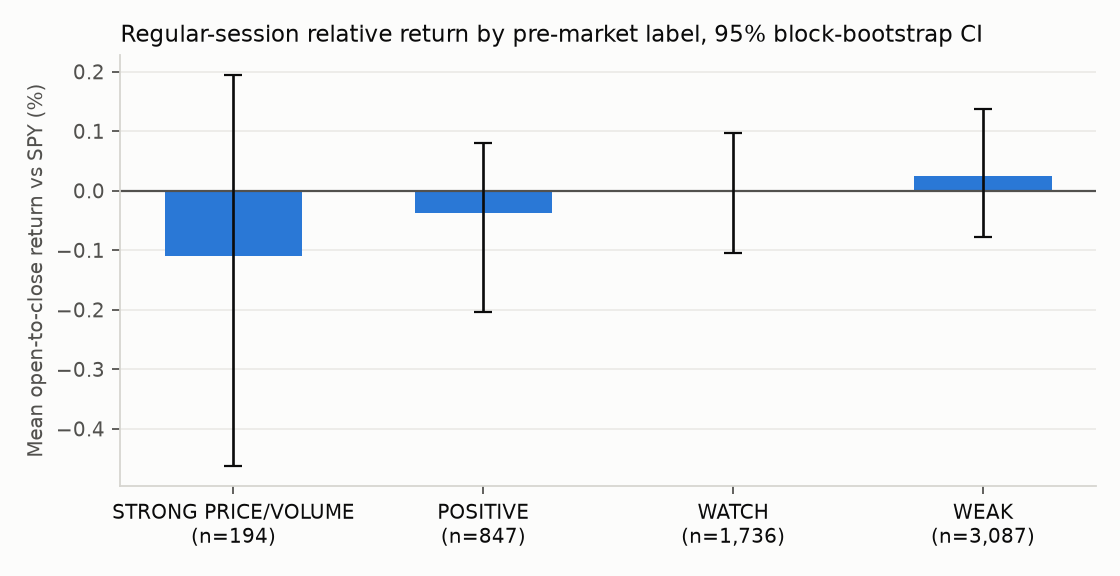
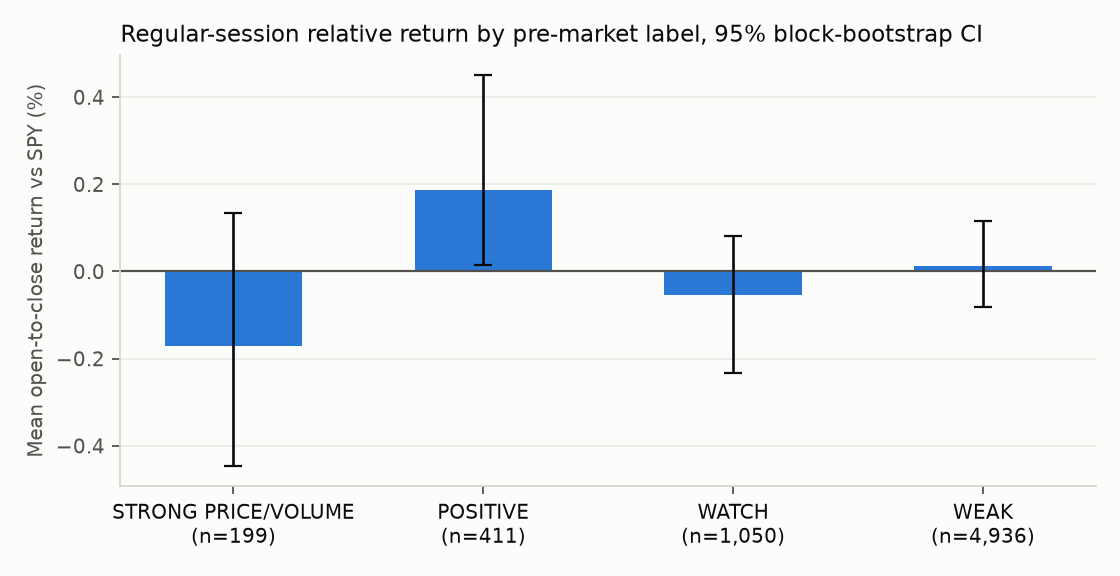
Signal evaluation for 2026-11-05

diff --git a/docs/premarket_evaluation.md b/docs/premarket_evaluation.md
@@ -7,26 +7,26 @@ close, relative to SPY over the same hours?**
 
 ## Summary
 
-*Last evaluated 2026-11-05 on 5,864 ticker-days (2023-12-26 to 2026-11-04), pre-market bars through 09:00 ET, data: yahoo.*
+*Last evaluated 2026-11-05 on 6,596 ticker-days (2023-11-07 to 2026-11-04), pre-market bars through 08:30 ET, data: alpaca-sip.*
 
 | Metric | Estimate | 95% CI |
 |---|---:|---:|
-| Rank IC: pre-market score vs open-to-close return over SPY | -0.030 | [-0.066, +0.002] |
-| Mean return gap: POSITIVE-or-better minus WEAK | -0.08% | [-0.28%, +0.11%] |
-| Rank IC: gap vs SPY alone (negative = gaps fade) | +0.000 | |
+| Rank IC: pre-market score vs open-to-close return over SPY | -0.025 | [-0.056, +0.001] |
+| Mean return gap: POSITIVE-or-better minus WEAK | +0.06% | [-0.14%, +0.27%] |
+| Rank IC: gap vs SPY alone (negative = gaps fade) | -0.010 | |
 
 The 95% interval includes zero, so the data do not show that the pre-market score predicts the regular session. It describes the pre-market well; it is not a forecast.
 
 
 ## Setup
 
-- **Universe:** AMD, AMZN, ETN, FSLR, GOOG, MRVL, NVDA, SKHY, SPCX, TSLA; benchmark SPY.
-- **Sample:** 717 trading days, 5,864 ticker-days with a full pre-market score.
+- **Universe:** ALAB, AMD, AMZN, ETN, FSLR, GOOG, MRVL, NVDA, SKHY, SPCX, TSLA; benchmark SPY.
+- **Sample:** 751 trading days, 6,596 ticker-days with a full pre-market score.
   0 ticker-days with a gap larger than 40% were dropped as
   likely data errors or corporate actions.
-- **Snapshot time:** pre-market bars that closed by 09:00 ET. Yahoo keeps
-  extended-hours history only at hourly resolution beyond ~60 days, so the evaluation uses hourly
-  bars; the live monitor uses 5-minute bars and runs at ~08:40 ET.
+- **Data:** Alpaca SIP feed (trades from every U.S. exchange), 30-minute bars over about 3 years, split-adjusted. Includes pre-market volume.
+- **Snapshot time:** pre-market bars that closed by 08:30 ET, the same
+  snapshot the [daily pre-market page](premarket.md) shows.
 - **Target:** open-to-close return minus SPY's open-to-close return. It begins after every input is
   known, so there is no look-ahead. Daily context comes from the previous completed session.
 - **Uncertainty:** one-day targets do not overlap, but stocks move together within a day, so
@@ -38,21 +38,21 @@ The 95% interval includes zero, so the data do not show that the pre-market scor
 
 | label | n | mean | ci_lo | ci_hi | median | hit_rate |
 |---|---:|---:|---:|---:|---:|---:|
-| STRONG PRICE/VOLUME | 194 | -0.11% | -0.46% | +0.20% | +0.03% | 50.5% |
-| POSITIVE | 847 | -0.04% | -0.20% | +0.08% | -0.03% | 48.8% |
-| WATCH | 1,736 | +0.00% | -0.10% | +0.10% | -0.06% | 48.7% |
-| WEAK | 3,087 | +0.03% | -0.08% | +0.14% | +0.00% | 50.0% |
+| STRONG PRICE/VOLUME | 199 | -0.17% | -0.45% | +0.13% | -0.25% | 45.7% |
+| POSITIVE | 411 | +0.19% | +0.02% | +0.45% | +0.10% | 52.6% |
+| WATCH | 1,050 | -0.05% | -0.23% | +0.08% | -0.03% | 48.7% |
+| WEAK | 4,936 | +0.01% | -0.08% | +0.11% | -0.02% | 49.5% |
 
 ## Baselines
 
 | signal | ic |
 |---|---:|
-| Pre-market score (this model) | -0.030 |
-| Gap vs SPY only | +0.000 |
-| Gap / ATR only | +0.001 |
-| Pre-market RVOL only | n/a |
-| Prior close end-of-day score only | -0.038 |
-| Shuffled score (null) | +0.006 |
+| Pre-market score (this model) | -0.025 |
+| Gap vs SPY only | -0.010 |
+| Gap / ATR only | -0.008 |
+| Pre-market RVOL only | +0.005 |
+| Prior close end-of-day score only | -0.030 |
+| Shuffled score (null) | -0.018 |
 
 The gap rows answer a classic market-microstructure question directly: a negative IC means
 pre-market moves have tended to reverse after the open (gap fade); a positive IC means they
@@ -62,10 +62,10 @@ have tended to extend (gap continuation).
 
 | removed | ic | change |
 |---|---:|---:|
-| gap | -0.030 | -0.001 |
-| volume | -0.030 | +0.000 |
-| level | -0.034 | -0.004 |
-| context | -0.015 | +0.014 |
+| gap | -0.022 | +0.003 |
+| volume | -0.024 | +0.002 |
+| level | -0.028 | -0.003 |
+| context | -0.019 | +0.006 |
 
 A negative *change* means removing the component lowers the IC, i.e. it was contributing.
 
@@ -73,23 +73,22 @@ A negative *change* means removing the component lowers the IC, i.e. it was cont
 
 | ticker | n | ic | mean_gap_abs |
 |---|---:|---:|---:|
-| AMD | 715 | +0.008 | 1.54% |
-| AMZN | 715 | -0.053 | 0.81% |
-| ETN | 717 | -0.059 | 0.92% |
-| FSLR | 715 | -0.041 | 1.09% |
-| GOOG | 715 | -0.033 | 0.79% |
-| MRVL | 715 | -0.035 | 1.83% |
-| NVDA | 715 | -0.047 | 1.17% |
-| SKHY | 62 | +0.075 | 2.71% |
-| SPCX | 80 | -0.046 | 1.46% |
-| TSLA | 715 | -0.055 | 1.28% |
+| ALAB | 640 | -0.013 | 2.02% |
+| AMD | 751 | +0.011 | 1.49% |
+| AMZN | 751 | -0.019 | 0.79% |
+| ETN | 554 | -0.070 | 1.05% |
+| FSLR | 740 | -0.048 | 1.09% |
+| GOOG | 751 | -0.027 | 0.78% |
+| MRVL | 751 | -0.049 | 1.77% |
+| NVDA | 751 | -0.067 | 1.14% |
+| SKHY | 69 | +0.005 | 2.84% |
+| SPCX | 87 | +0.050 | 1.41% |
+| TSLA | 751 | -0.027 | 1.26% |
 
 ## Limitations
 
-- About two years of hourly extended-hours data from Yahoo Finance, an unofficial source.
-  Extended-hours volume is sometimes missing; when it is, the volume component is left out and
-  the score re-normalised (see *coverage*).
+- A few years of history for a handful of stocks; SPCX and SKHY add only a few months.
 - Intraday prices are not dividend-adjusted; on ex-dividend days the measured gap includes the
   dividend. The effect is small for this universe.
 - Open-to-close returns ignore the cost of trading at the open, when spreads are widest.
-- 10 correlated stocks; several comparisons on the same data. Not investment advice.
+- 11 correlated stocks; several comparisons on the same data. Not investment advice.

diff --git a/README.md b/README.md
@@ -66,13 +66,13 @@ Full write-up: [docs/evaluation.md](docs/evaluation.md)
 ### Pre-market score → same-day open-to-close
 
 <!-- PREMARKET-EVAL:START -->
-*Last evaluated 2026-11-05 on 5,864 ticker-days (2023-12-26 to 2026-11-04), pre-market bars through 09:00 ET, data: yahoo.*
+*Last evaluated 2026-11-05 on 6,596 ticker-days (2023-11-07 to 2026-11-04), pre-market bars through 08:30 ET, data: alpaca-sip.*
 
 | Metric | Estimate | 95% CI |
 |---|---:|---:|
-| Rank IC: pre-market score vs open-to-close return over SPY | -0.030 | [-0.066, +0.002] |
-| Mean return gap: POSITIVE-or-better minus WEAK | -0.08% | [-0.28%, +0.11%] |
-| Rank IC: gap vs SPY alone (negative = gaps fade) | +0.000 | |
+| Rank IC: pre-market score vs open-to-close return over SPY | -0.025 | [-0.056, +0.001] |
+| Mean return gap: POSITIVE-or-better minus WEAK | +0.06% | [-0.14%, +0.27%] |
+| Rank IC: gap vs SPY alone (negative = gaps fade) | -0.010 | |
 
 The 95% interval includes zero, so the data do not show that the pre-market score predicts the regular session. It describes the pre-market well; it is not a forecast.
 
